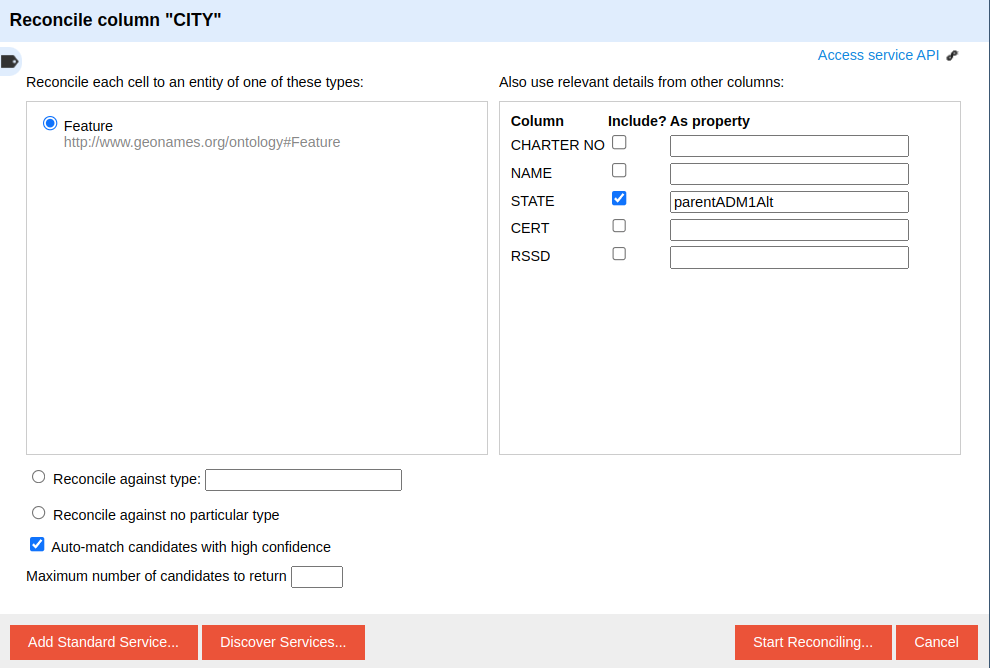
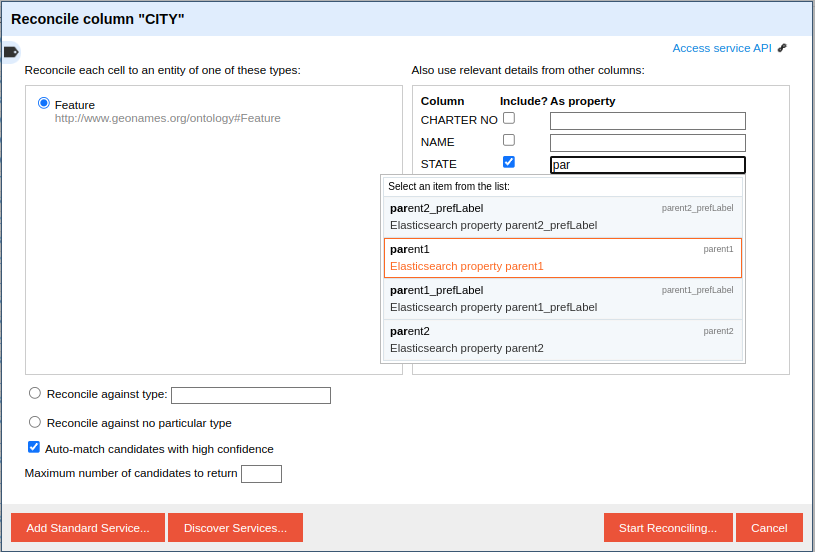
banks-use-case (#4)
* reconciliator version

* changed endpoint name for clarity

* changed endpoint name for clarity

* changed endpoint name for clarity

Changed region(s): [[0.0, 0.0924, 0.9509, 0.8931], [0.0, 0.0, 1.0, 1.0]]

diff --git a/us-banks/README.md b/us-banks/README.md
@@ -23,8 +23,8 @@ This can be:
 The Knowledge Graph contains the following entities
 * The administrative territorial hierarchy of the world. All the countries and their administrative divisions from geonames (451379 entities)
 * Populated places for Europe and North America. (888968 entities) 
-* Alternative labels in english for the locations (harvested from wikidata)
-* Buildings with their name and location (245388 entities). Close to 600 of these buildings are banks and have corresponding matches in the tabular data.  
+* Alternative labels in english for the landmarks (harvested from wikidata)
+* Landmarks with their name and location (245388 entities). Close to 600 of these landmarks are bank buildings and have corresponding matches in the tabular data.  
 
 This diagram shows how places are attached to their corresponding feature from Geonames 
 as well as the relevant part of the administrative hierarchy needed to solve the reconciliation case.
@@ -62,6 +62,7 @@ starting from th less ambiguous to the more ambiguous
 Reconcile the unambiguous entities using their shared identifiers. 
 In this case this is the `CHARTER NO` column 
 and the value of the `ex:charter` relation for about 100 entities
+
 
 ### Match using string matching 
 
@@ -130,33 +131,32 @@ The reconciliation service configuration is in the [config](config) folder
 2. Start the reconciliation service docker `docker-compose -f docker-compose.yml up -d`
 3. Access GraphDB at `localhost:7400` 
 4. Load all the RDF data from [data/kb/ttl](data/kb/ttl). 
-5. Create the elasticsearch connectors by executing the two sparql queries [locations.sparql](config/reconciliator/locations.sparql) and [place.sparql](config/reconciliator/place.sparql)
+5. Create the elasticsearch connectors by executing the two sparql queries [landmarks.sparql](config/reconciliator/landmarks.sparql) and [place.sparql](config/reconciliator/places.sparql)
 
 ### Matching workflow using Ontotext Refine
 
 Download and run latest [Ontotext Refine](https://www.ontotext.com/products/ontotext-refine/).
 
-Create a project using the tabular data from [national-bank.tsv](data/tabular/national-bank.tsv)
+Create a project using the tabular data from [data/tabular/national-bank.tsv]
 
 Register the reconciliation endpoints.
 * `http://localhost:8085/places` - for the Geonames entities 
-* `http://localhost:8085/locations` - for the Locations 
+* `http://localhost:8085/landmarks` - for the landmarks 
 
 First match the geographical entities using the `places` reconciliation endpoint: 
 
 Matching  the `CITY` column alone will be ambiguous,
 due to the high number of cities with the same name.
-For this reason add details from another column, `STATE`, 
-which should match with the content of the `ParentADM1Alt` field, 
+For this reason add details from another column, "STATE", which should match with the content of the `parent1` field, 
 which contains the alternative labels of all the administrative entities of level 1. 
 
 ![places-recon](img/places-OR-recon.png)
 
-Once the process is finished we can match the banks against the `locations` endpoint. 
-To do this match the 'NAME' column and add the details from the 'CITY' column as the 'place' field.
+Once the process is finished we can match the banks against the `landmarks` endpoint. 
+To do this match the 'NAME' column and add the details from the 'CITY' column as the `place_id` field.
 Note that the type suggestion service correctly identifies "bank building" as the correct type.
 
-![location-recon](img/locations-OR-recon.png)
+![landmarks-recon](img/landmarks-OR-recon.png)
 
 ### WIP: Create and add new entities
 
